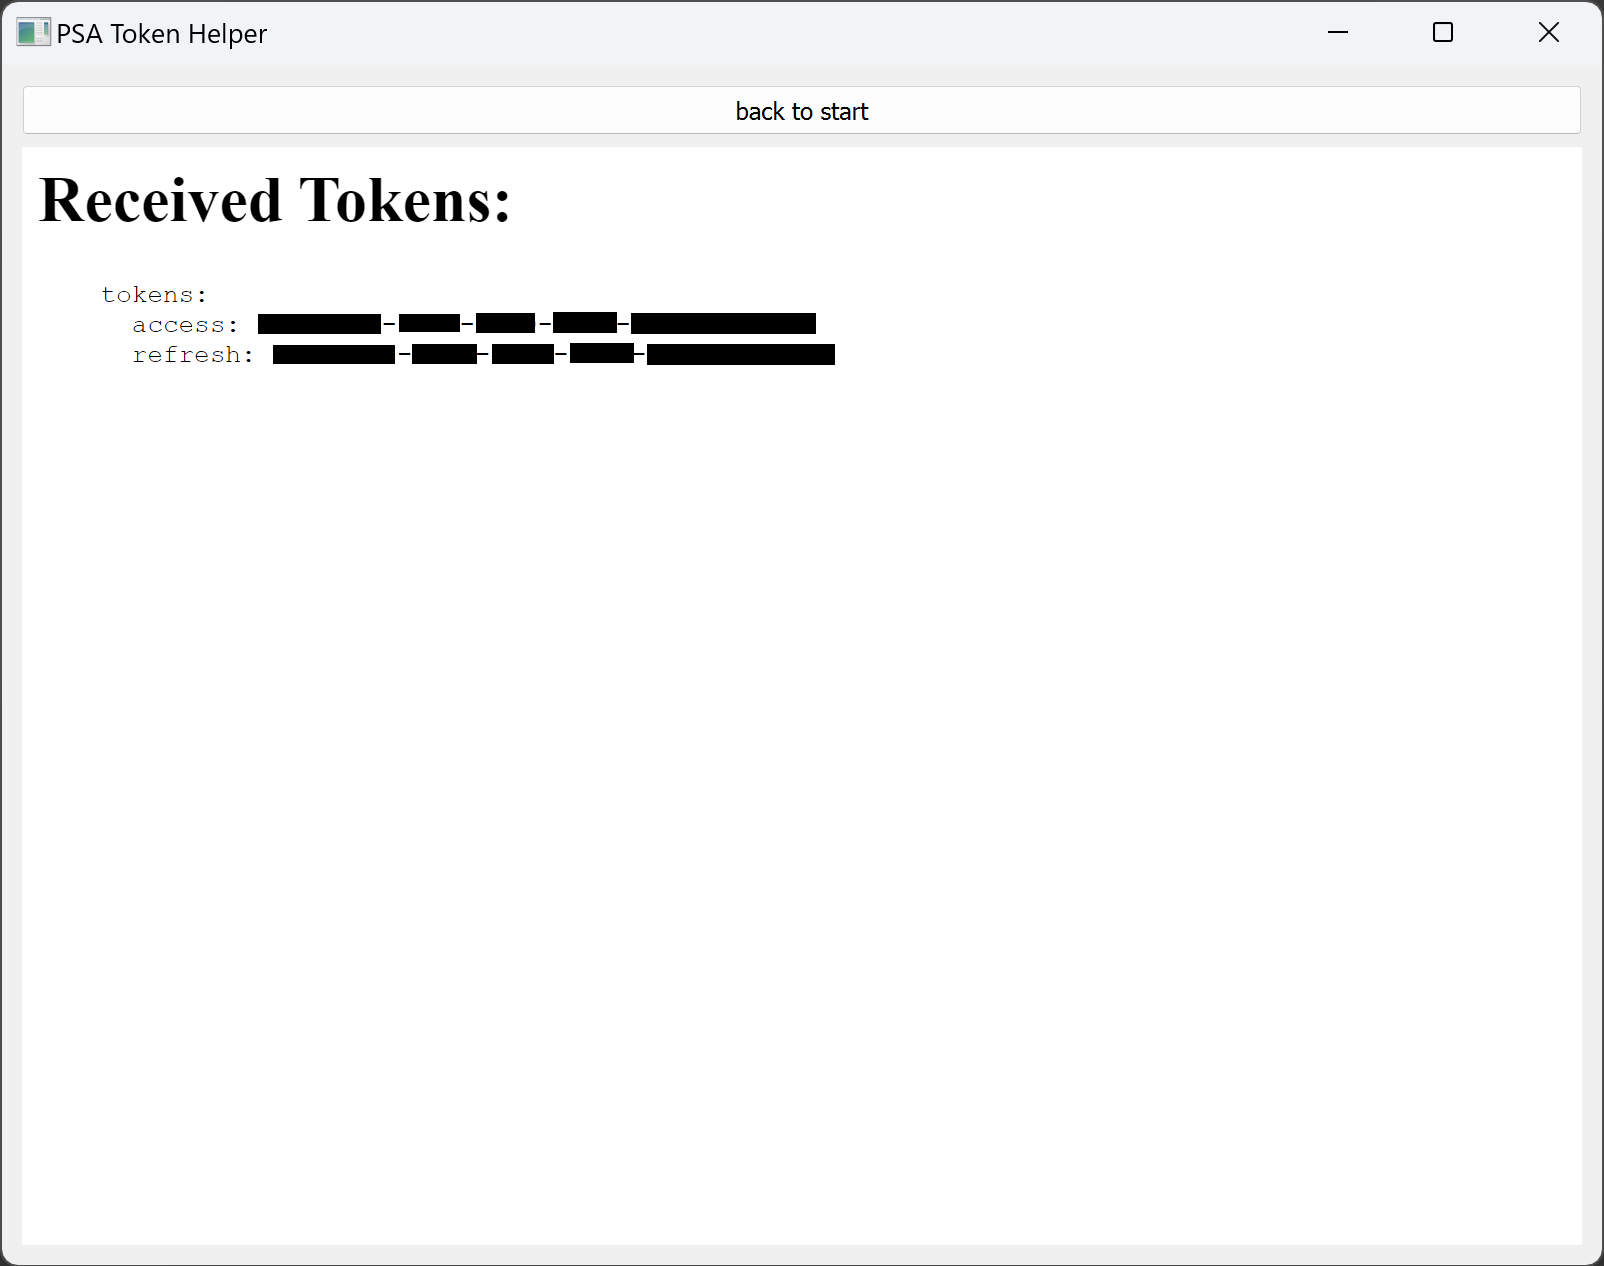
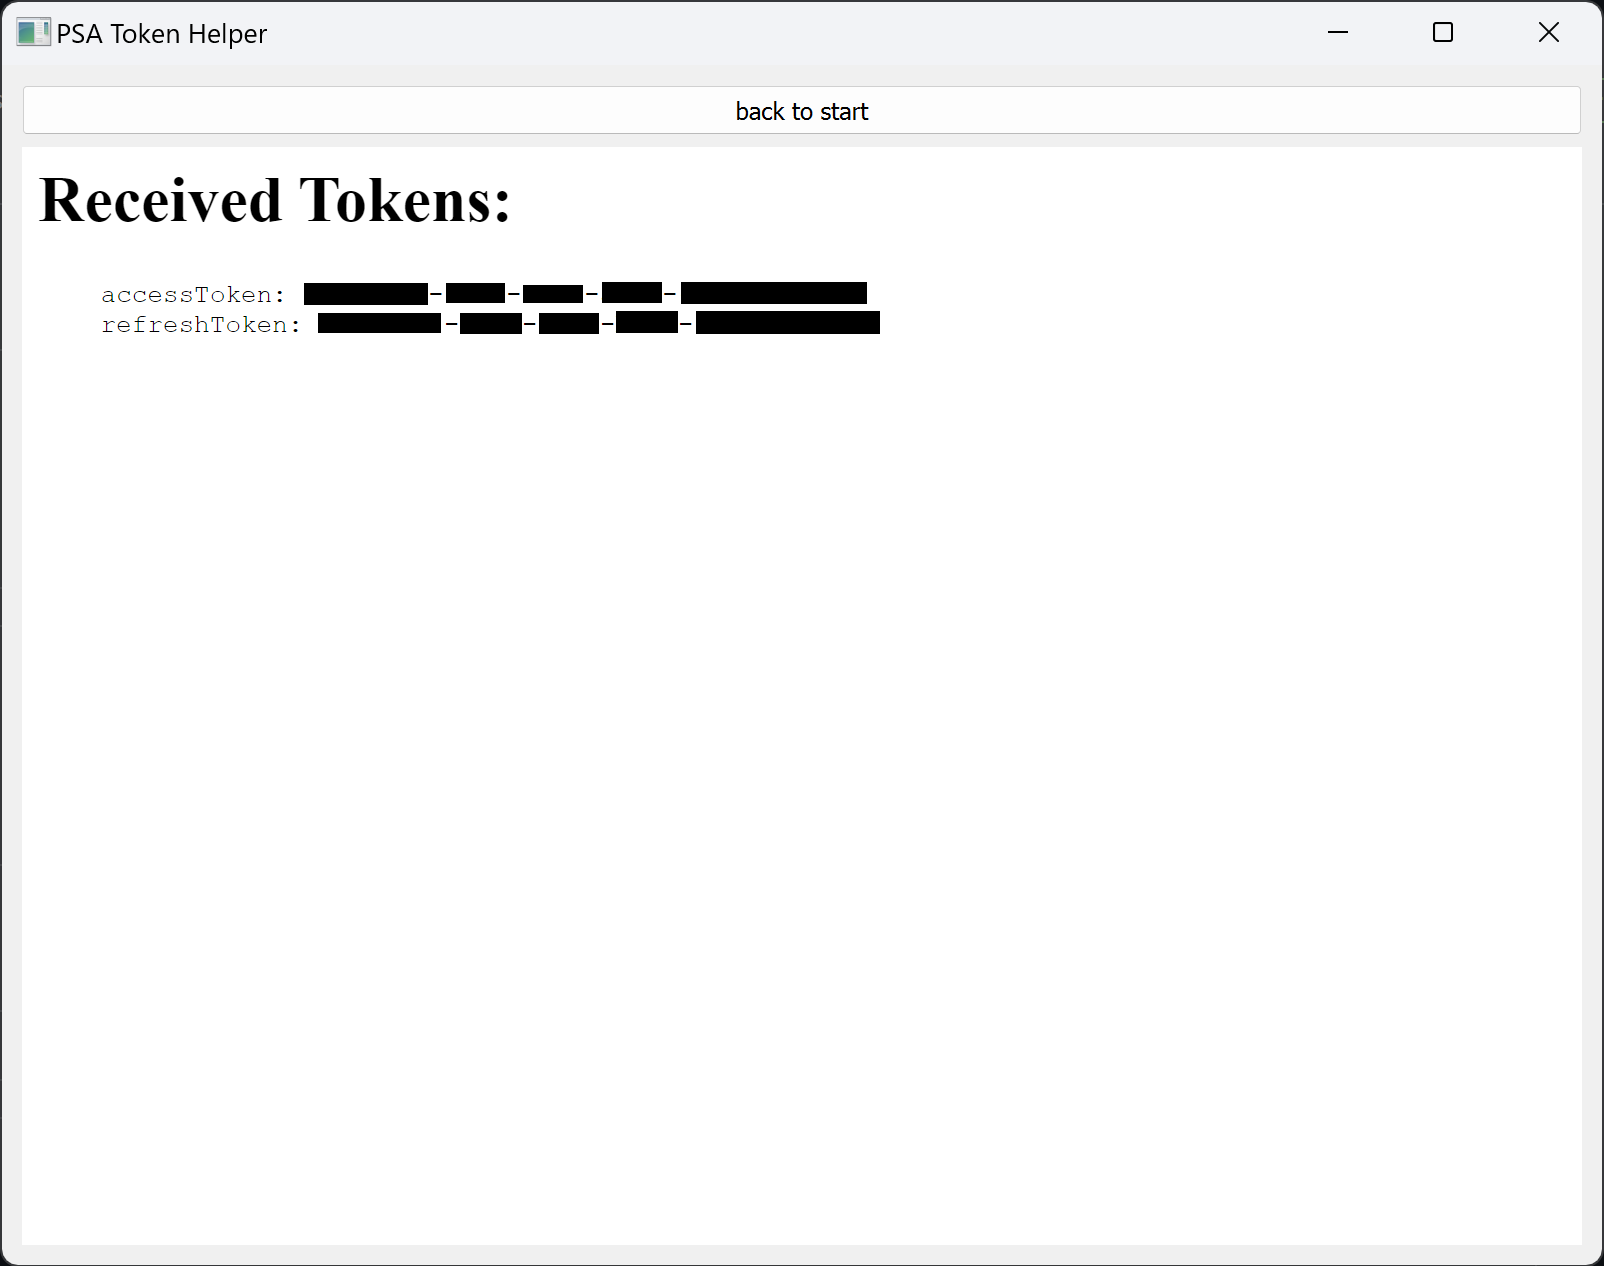
fix/cleanup, change output

diff --git a/psa-token-helper.py b/psa-token-helper.py
@@ -5,12 +5,12 @@ import hashlib
 import secrets
 import base64
 import sys
-from PyQt5.QtCore import QUrl, QByteArray
-from PyQt5.QtWidgets import QApplication, QMainWindow, QVBoxLayout, QWidget, QLineEdit, QPushButton
-from PyQt5.QtWebEngineWidgets import QWebEngineView, QWebEnginePage, QWebEngineSettings
+from PyQt5.QtCore import QByteArray
+from PyQt5.QtWidgets import QApplication, QMainWindow, QVBoxLayout, QWidget, QPushButton
+from PyQt5.QtWebEngineWidgets import QWebEngineView
 from PyQt5.QtWebEngineCore import QWebEngineUrlRequestInterceptor, QWebEngineUrlScheme, QWebEngineUrlSchemeHandler
 
-from PyQt5 import QtWidgets, QtCore, QtGui
+from PyQt5 import QtWidgets, QtCore
 
 QtWidgets.QApplication.setAttribute(QtCore.Qt.AA_EnableHighDpiScaling, True)  # enable highdpi scaling
 QtWidgets.QApplication.setAttribute(QtCore.Qt.AA_UseHighDpiPixmaps, True)  # use highdpi icons
@@ -129,7 +129,7 @@ class BrowserWindow(QMainWindow):
 
         links = []
         for brand, data in brands.items():
-            url = f"https://idpcvs.{data["realm"]}/am/oauth2/authorize?client_id={data["clientid"]}&redirect_uri={data["scheme"]}%3A%2F%2Foauth2redirect%2Fde&response_type=code&scope=openid%20profile&code_challenge_method=S256&code_challenge={code_verifier}"
+            url = f"https://idpcvs.{data['realm']}/am/oauth2/authorize?client_id={data['clientid']}&redirect_uri={data['scheme']}%3A%2F%2Foauth2redirect%2Fde&response_type=code&scope=openid%20profile&code_challenge_method=S256&code_challenge={code_verifier}"
             links.append(f"<a href=\"{url}\">{brand}</a>")
         links = "<br>".join(links)
 
@@ -144,9 +144,8 @@ Please select your vehicle brand:<br>
         custom_html = f"""
 <h1>Received Tokens:</h1>
 <pre>
-    tokens:
-      access: {access}
-      refresh: {refresh}
+    accessToken: {access}
+    refreshToken: {refresh}
 </pre>
         """
         self.browser.setHtml(custom_html)

diff --git a/README.md b/README.md
@@ -13,7 +13,7 @@ Alternatively, install necessary python3 modules and run psa-token-helper.py.
 Here as an example with an python virtual environment:
 ```
 python3 -m venv venv
-source venv/bin/activate # on windows: .\venv3\Scripts\activate
+source venv/bin/activate # on windows: .\venv\Scripts\activate
 pip install PyQT5 PyQtWebEngine requests
 
 python psa-token-helper.py
